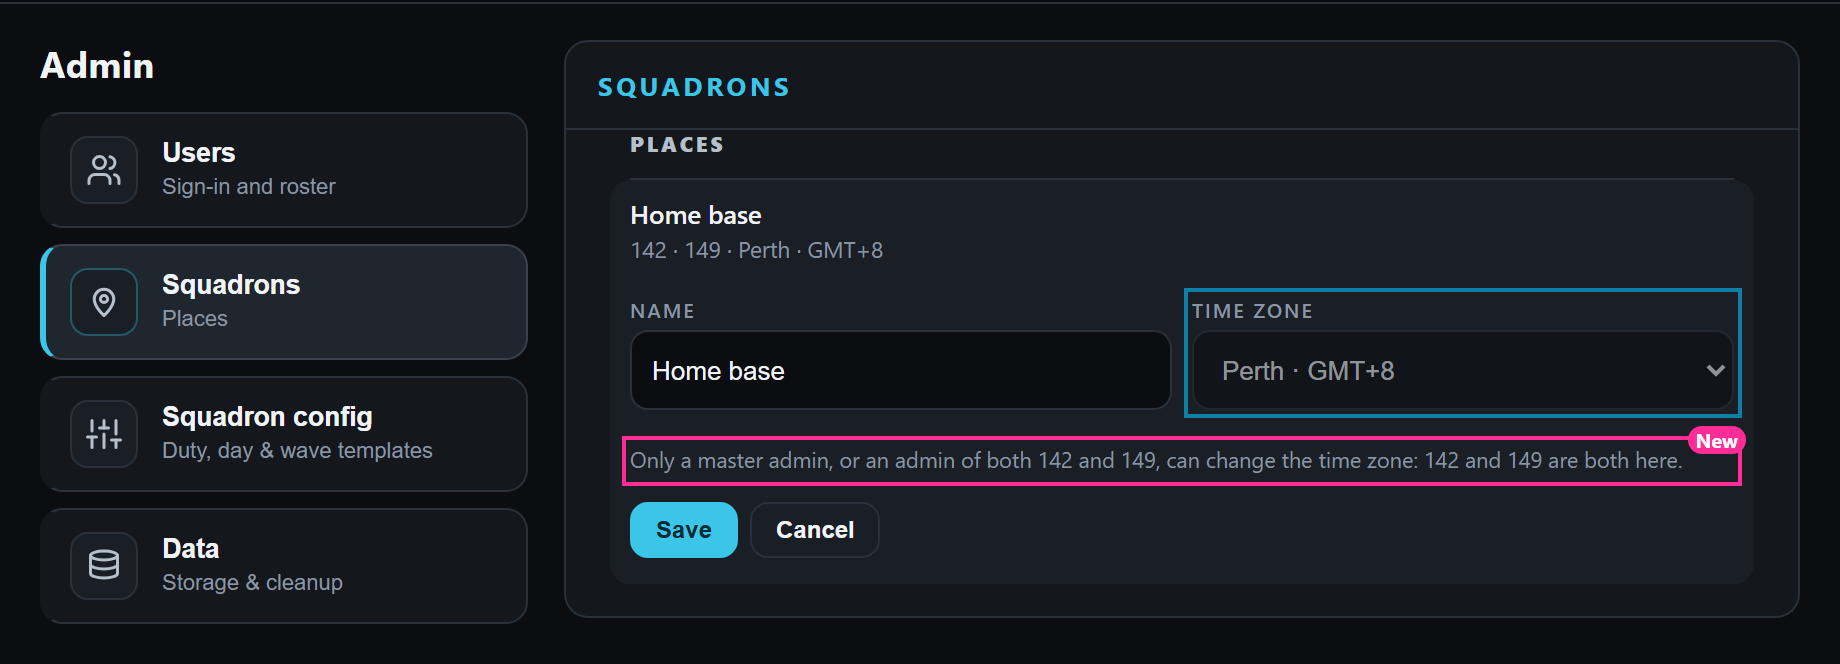
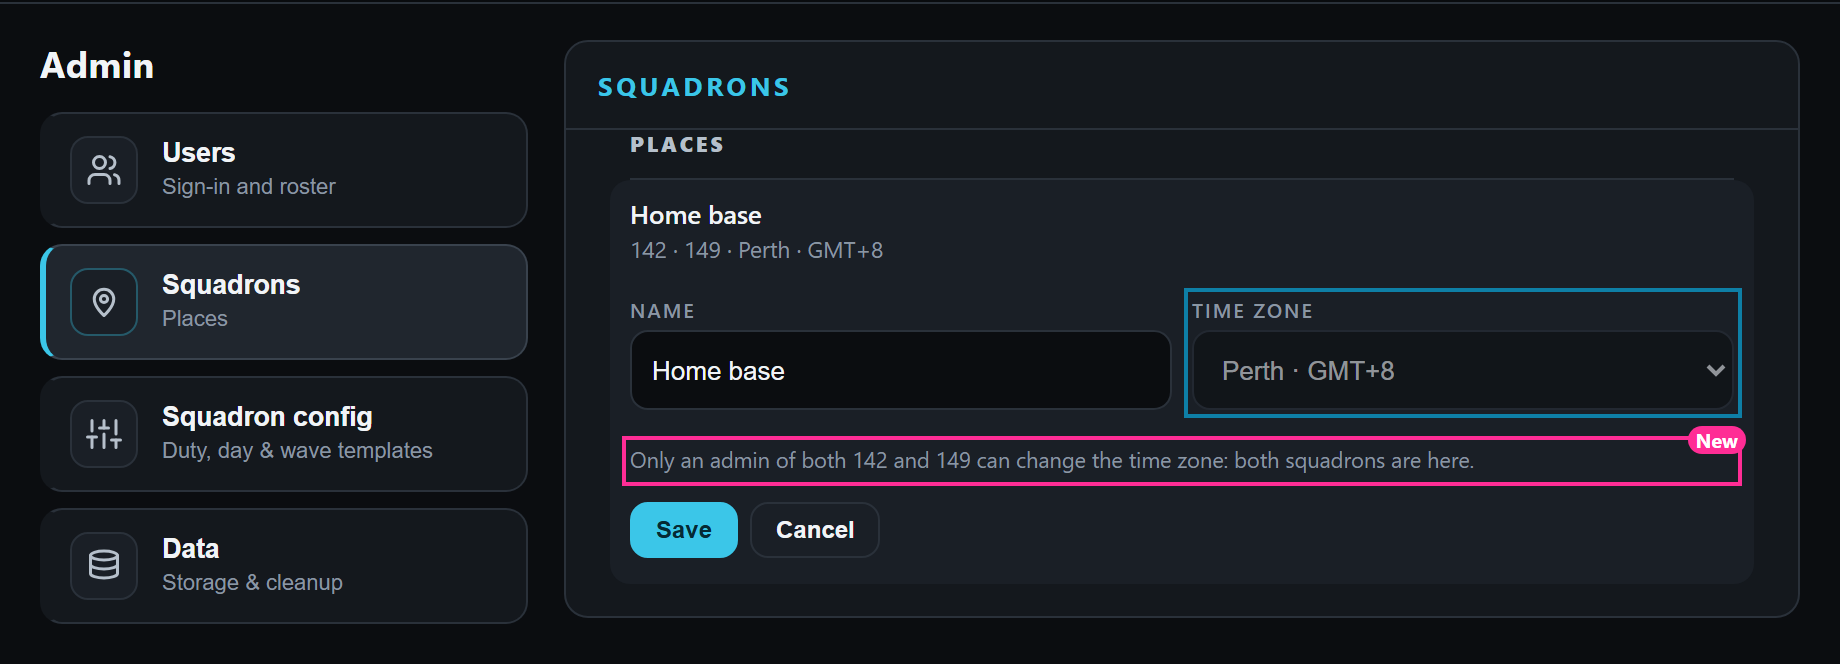
Batch 1's second half page, version 3 (draft): the row redesign with three squadrons and what each role allows (D2300), the Schedules menu options, D2299's words on 5c and 3d, the wording list; design lesson 98 (D2299)

Changed region(s): [[0.3717, 0.6627, 0.8984, 0.7229]]

diff --git a/raptor-port/docs/mock/2026-11-22-msq-b1-screens/page.html b/raptor-port/docs/mock/2026-11-22-msq-b1-screens/page.html
@@ -22,6 +22,7 @@ li{margin:4px 0}
 .pic h3{font-family:var(--head);font-size:17px;margin:0}
 .pic p{margin:0;color:var(--muted)}
 .pair{display:grid;grid-template-columns:2fr 1fr;gap:10px;align-items:start}
+.pair.even{grid-template-columns:1fr 1fr}
 .one{display:grid;grid-template-columns:1fr;gap:10px}
 @media (max-width:620px){.pair{grid-template-columns:1fr}}
 .pair figure,.one figure{margin:0;min-width:0}
@@ -41,6 +42,39 @@ figcaption{font-size:13px;color:var(--muted);margin-top:4px}
 <p class="sub">The first half of batch 1 is live: 142 and 149 kept apart underneath. This half builds the screens you see. Nothing of it is built yet. Each picture is the real app with the new part drawn in. <span class="okk">Blue "Approved"</span> marks what you already approved on 17 or 19 Nov, redrawn on today's app. <span class="new">Pink "New"</span> marks what is new since. Tap a picture to see it full size.</p>
 
 <h2>Look at now</h2>
+<p class="sub">New today, A to D, first. Then the questions still open from before, 1 to 5.</p>
+
+<div class="q"><div><b class="n">A</b>A person's opened row on Admin → Users, made shorter (<a href="#p-rowB">pictures R1 to R7</a>). You asked for a nicer, more concise design, and what it looks like with three squadrons.</div>
+<div class="rec">Recommended: B, as drawn in R1 to R5.</div>
+<ul><li><b>Role</b> becomes Member, Admin or Master admin. Master admin leaves the access buttons and joins Role, since it is a role, not access to one squadron.</li>
+<li>Under it, <b>one line per squadron</b>: "142 Home squadron", then "149 None · View · Plan". With three squadrons a third line, "150 None · View · Plan", is added (R1). Each line fits on one row of an iPhone.</li>
+<li>A master admin's other squadrons read "Full access", with no buttons (R4).</li>
+<li>What follows from it: you ruled on 21 Nov that a master admin is never made a member until the master admin mark is taken off first. On this row, picking Member in place of Master admin is itself taking the mark off, and only a master admin can do it. So that refusal has nothing left to stop here.</li>
+<li>The other two, for comparison (R6, R7): A keeps today's four buttons and moves "Home squadron" into a small grey "142" by his name. C turns everything into drop-down boxes. B is shorter than both and reads the same with any number of squadrons.</li></ul></div>
+
+<div class="q"><div><b class="n">B</b>The Schedules menu under the "142 ▾" button, redesigned (<a href="#p-menuB">pictures M1 to M4</a>). You asked for a nicer look.</div>
+<div class="rec">Recommended: A, the list with a tick (M1, M2).</div>
+<ul><li>A tick on the squadron in view, as an iPhone menu does it. Beside each squadron one grey word: "Your squadron", "View only" or "Full access".</li>
+<li>M1 also shows a detachment under its squadron, "249 · Exercise North", fainter. Detachments come in batch 2; it shows how the menu grows. M2: the same menu with 149 in view.</li>
+<li>B (M3) uses cards; C (M4) puts the squadrons under headings. Both take more room for two or three lines.</li>
+<li>The rows are drawn 44 high. The app's other menus use 38. I recommend 38, so the menu matches the rest of the app. Say if you prefer the taller rows.</li>
+<li>This replaces picture 1, which you approved on 17 Nov.</li></ul></div>
+
+<div class="q"><div><b class="n">C</b>What each role allows, written where roles are given (<a href="#p-rowB">pictures R2 and R3</a>). You asked for this.</div>
+<div class="rec">Recommended: as drawn.</div>
+<ul><li>A blue "▸ What each role allows" under the squadron lines, closed until tapped, in the look of the Logic page's "How it works". Open, it lists:</li>
+<li><b>Member</b>: reads the schedule; changes only their own inputs, Quals row and leave bids. <b>Admin</b>: full access to the home squadron: its schedule and publishing, its settings, its people and their sign-ins. <b>View of a squadron</b>: reads that squadron's schedule and Logic; changes nothing there. <b>Plan of a squadron</b>: full access to that squadron, the same list. <b>Master admin</b>: full access to every squadron; only a master admin makes a squadron, gives Plan or makes a master admin.</li>
+<li>Because the list explains each role, the Role choices drop their long words: "Member — own inputs, quals and bids" becomes "Member". This also mends an iPhone fault in the earlier drawing, where the Role box cut "Admin — schedules and manages" off mid-word.</li></ul></div>
+
+<div class="q"><div><b class="n">D</b>Clearer words across this page. You asked what else should be changed to be clearer. Each line: the words now, then what I would write.</div>
+<div class="rec">Recommended: all six.</div>
+<ul><li>5b: "Only a master admin gives Plan or makes a master admin." → <b>"Only a master admin can give Plan."</b> With B, making a master admin is in Role, not here.</li>
+<li>5a: "Full access to 149, every page: its schedule and publishing, …" → <b>"Full access to 149: its schedule and publishing, its settings, its people and their sign-ins."</b> "Every page" adds nothing the list does not already say. You approved the longer words on 19 Nov.</li>
+<li>3b: "Saved at once; counts from tomorrow." → <b>"Saved at once. The new place applies from tomorrow."</b> It now says what starts tomorrow.</li>
+<li>3c and 3e: "… gets Plan of 150: full access to it, so 150 never starts without an admin." → <b>"… gets Plan of 150, so 150 starts with an admin."</b> What Plan means is now in the role list.</li>
+<li>7b, the Role ticks: "Admin + Plan of 149" → <b>"Plans 149"</b>, the same words as "· also plans 149" on the person's line.</li>
+<li>9a: "It will try again when the app is next opened. If this stays, report it …" → <b>"The app tries again the next time it opens. If this line is still here after that, report it …"</b> "If this stays" did not say when to report it.</li></ul></div>
+
 <div class="q"><div><b class="n">1</b>Your filter button, drawn (<a href="#p-filter">pictures 7a to 7d</a>). You chose it over my filter row.</div>
 <div class="rec">To check: does it look as you meant?</div>
 <ul><li>One "Filter" button beside the search. A tap opens tick boxes: Seat, CAT, Role, and for a master admin Squadron.</li>
@@ -69,7 +103,8 @@ figcaption{font-size:13px;color:var(--muted);margin-top:4px}
 
 <h2>Told, not asked</h2>
 <div class="told"><ul>
-<li><b>Two sentences now name an admin with Plan.</b> You ruled that wherever a master admin may act for a squadron, so may an admin with Plan of it, and both are named. So picture 5c reads "Only 149's admins, an admin with Plan of 149 or a master admin give access to 149." Picture 3d reads "Only a master admin, or an admin of both 142 and 149, can change the time zone: 142 and 149 are both here."</li>
+<li><b>Two sentences redrawn in your words.</b> Picture 5c now reads "Only an admin of 149 can give access to 149." Picture 3d reads "Only an admin of both 142 and 149 can change the time zone: both squadrons are here." "An admin of 149" covers 149's own admins, an admin with Plan of 149 and a master admin.</li>
+<li><b>The filter button is dark on blue</b>, as the app's other lit buttons are (picture 7c). The earlier drawing had it white on blue.</li>
 <li><b>Admin → Squadrons is one page made from your two approved drawings.</b> On 17 Nov the time zone was drawn on each squadron's row, though you had ruled that it belongs to the place. Since 18 Nov a place both squadrons share is a master admin's to set, so the time zone moved to a Places list under the squadrons, as your 19 Nov drawing had it. The tile wears that drawing's map pin, and reads "Places" until detachments come in batch 2. The time zone reads Perth, as on 17 Nov, where the 19 Nov drawing said Singapore.</li>
 <li><b>Which Hunter is which.</b> In pictures 3d, 5c, 7a and 7b Hunter is 142's admin before Saber gives him Plan of 149. In 5a, 6, 8c and 9b he holds it. With Plan he could change the shared time zone, give View of 149, and would be listed under "Admin + Plan of 149".</li>
 <li><b>149's size corrected.</b> The 17 Nov page said 149 has 48 people. The demo has 10.</li>
@@ -89,7 +124,22 @@ figcaption{font-size:13px;color:var(--muted);margin-top:4px}
 <li>A sign-in on a shared computer waits for the last person's change to finish saving.</li>
 </ul>
 
-<section class="pic" id="p-menu"><h3>1 · The "142 ▾" button and its Schedules menu</h3>
+<section class="pic" id="p-rowB"><h3>R · A person's row, redesigned (questions A and C)</h3>
+<p><span class="new">New.</span> R1: Saber, the master admin, opens Hunter, 142's admin, with three squadrons: Plan of 149, View of 150. R2: the same with "What each role allows" opened. R3: Kestrel, 149's admin, opens Ranger of 142: only 149's line is his to change, so the rest of Ranger's row is greyed. R4: Saber picks Master admin for Hunter. R5: Hunter opens Ranger: access to 149 is not his to give. R6 and R7: options A and C, for comparison.</p>
+<div class="pair"><figure><img src="img/k1-d.png" alt="Desktop: Hunter's row with lines for 142, 149 and 150"><figcaption>R1, desktop.</figcaption></figure><figure><img src="img/k1-p.png" alt="iPhone: the same row"><figcaption>R1, iPhone.</figcaption></figure></div>
+<div class="pair"><figure><img src="img/k2-d.png" alt="Desktop: the role list opened under the squadron lines"><figcaption>R2, desktop.</figcaption></figure><figure><img src="img/k2-p.png" alt="iPhone: the role list opened"><figcaption>R2, iPhone.</figcaption></figure></div>
+<div class="pair"><figure><img src="img/k3-d.png" alt="Desktop: Ranger's row as Kestrel sees it, View of 149 picked"><figcaption>R3, desktop.</figcaption></figure><figure><img src="img/k3-p.png" alt="iPhone: Ranger's row as Kestrel sees it"><figcaption>R3, iPhone.</figcaption></figure></div>
+<div class="pair"><figure><img src="img/k4-d.png" alt="Desktop: Master admin picked, 149 and 150 read Full access"><figcaption>R4, desktop.</figcaption></figure><figure><img src="img/k4-p.png" alt="iPhone: Master admin picked"><figcaption>R4, iPhone.</figcaption></figure></div>
+<div class="pair"><figure><img src="img/k5-d.png" alt="Desktop: Ranger's row as Hunter sees it, 149's buttons greyed"><figcaption>R5, desktop.</figcaption></figure><figure><img src="img/k5-p.png" alt="iPhone: 149's buttons greyed"><figcaption>R5, iPhone.</figcaption></figure></div>
+<div class="pair even"><figure><img src="img/rA1-d.png" alt="Desktop: option A, today's four buttons with a grey 142 by the name"><figcaption>R6, option A.</figcaption></figure><figure><img src="img/rC1-d.png" alt="Desktop: option C, drop-down boxes"><figcaption>R7, option C.</figcaption></figure></div></section>
+
+<section class="pic" id="p-menuB"><h3>M · The Schedules menu, redesigned (question B)</h3>
+<p><span class="new">New.</span> M1: option A, 142 in view, with a batch 2 detachment shown under 149. M2: option A with 149 in view. M3: option B, cards. M4: option C, headings.</p>
+<div class="pair"><figure><img src="img/mA1-d.png" alt="Desktop: the menu as a list with a tick on 142"><figcaption>M1, desktop.</figcaption></figure><figure><img src="img/mA1-p.png" alt="iPhone: the menu as a list with a tick"><figcaption>M1, iPhone.</figcaption></figure></div>
+<div class="pair"><figure><img src="img/mA2-d.png" alt="Desktop: the tick on 149"><figcaption>M2, desktop.</figcaption></figure><figure><img src="img/mA2-p.png" alt="iPhone: the tick on 149"><figcaption>M2, iPhone.</figcaption></figure></div>
+<div class="pair even"><figure><img src="img/mB1-p.png" alt="iPhone: option B, cards"><figcaption>M3, option B, iPhone.</figcaption></figure><figure><img src="img/mC1-p.png" alt="iPhone: option C, headings"><figcaption>M4, option C, iPhone.</figcaption></figure></div></section>
+
+<section class="pic" id="p-menu"><h3>1 ·The "142 ▾" button and its Schedules menu</h3>
 <p>Approved 17 Nov. Saber may see both squadrons, so the TALON mark is a button. The menu lists 142 and 149. On a phone it opens as a sheet from the top.</p>
 <div class="pair"><figure><img src="img/b1-1-d.png" alt="Desktop: the Schedules menu under the 142 button, listing 142 and 149"><figcaption>1, desktop.</figcaption></figure><figure><img src="img/b1-1-p.png" alt="iPhone: the Schedules sheet"><figcaption>1, iPhone.</figcaption></figure></div></section>
 
@@ -110,7 +160,7 @@ figcaption{font-size:13px;color:var(--muted);margin-top:4px}
 <div class="pair"><figure><img src="img/b1-5-d.png" alt="Desktop: Request access with Squadron first"><figcaption>4, desktop.</figcaption></figure><figure><img src="img/b1-5-p.png" alt="iPhone: Request access"><figcaption>4, iPhone.</figcaption></figure></div></section>
 
 <section class="pic" id="p-row"><h3>5 · A person's row on Admin → Users</h3>
-<p>Approved 17 and 19 Nov, now in one picture: the "Home squadron" line, then the access buttons. 5a: Saber, the master admin, gives Hunter Plan 149. 5b: Kestrel, 149's admin, opens Ranger (142's): only View 149 is his to give, the rest of Ranger's row stays 142's. 5c: Hunter, 142's admin, opens Ranger: access to 149 is not his to give (<span class="new">New:</span> its sentence names an admin with Plan).</p>
+<p>Approved 17 and 19 Nov, now in one picture: the "Home squadron" line, then the access buttons. 5a: Saber, the master admin, gives Hunter Plan 149. 5b: Kestrel, 149's admin, opens Ranger (142's): only View 149 is his to give, the rest of Ranger's row stays 142's. 5c: Hunter, 142's admin, opens Ranger: access to 149 is not his to give (<span class="new">New:</span> its sentence, in your words). Question A would replace this row with R1 to R5.</p>
 <div class="pair"><figure><img src="img/p1a-d.png" alt="Desktop: Hunter's row, Plan 149 picked"><figcaption>5a, desktop.</figcaption></figure><figure><img src="img/p1a-p.png" alt="iPhone: Hunter's row"><figcaption>5a, iPhone.</figcaption></figure></div>
 <div class="pair"><figure><img src="img/p1b-d.png" alt="Desktop: Ranger's row as Kestrel sees it"><figcaption>5b, desktop.</figcaption></figure><figure><img src="img/p1b-p.png" alt="iPhone: Ranger's row as Kestrel sees it"><figcaption>5b, iPhone.</figcaption></figure></div>
 <div class="one"><figure><img src="img/p1c-d.png" alt="Desktop: Ranger's row as Hunter sees it, the buttons greyed"><figcaption>5c, desktop.</figcaption></figure></div></section>

diff --git a/raptor-port/docs/design-practices.md b/raptor-port/docs/design-practices.md
@@ -643,6 +643,8 @@ first, as a chat does for ruling numbers, and names it in its handoff block; whe
 the merge renumbers only the branch's own side, by script, and the closing report tells him the old and new numbers
 (D1417).*
 
+**Lesson 98 (22 Nov 26, D2299 — "this is not written clearly").** A line saying who may do something names one role once — "Only an admin of 149 can give access to 149." — never a list of every kind of person who holds that right. *(The agent's reading: where one role already covers the others, as "an admin of 149" covers 149's own admins, a Plan holder of 149 and a master admin, that one role is the one named.)*
+
 **Lesson 96 (19 Nov 26, D2211 — "Instead of saying as for 149's own admin. Perhaps make it clearer").** The line under an access level says plainly what the person gets, never by comparison with another role. *(The agent's reading: the same holds for any line that explains a role or a setting.)*
 
 **Lesson 95 (17 Nov 26, D2121 — "10b if 142 hasnt approve the schedule, to the user, it looks like the schedule for the day is published").** A status shown inside a day never makes that day read as published while its own squadron has not signed it.

diff --git a/raptor-port/docs/archive/design-lessons-detail-2026-11-10.md b/raptor-port/docs/archive/design-lessons-detail-2026-11-10.md
@@ -177,3 +177,7 @@ nothing until accepted again" and a rejected row's hover text "Removed from the 
 Both wait for his answer (the night of 16–17 Oct 26, question 2).
 
 *Lesson 1 (16 Oct 26, D938 — "a scheduler's working screen carries no hint on how a row is edited…") was struck by him the same day: "Disregard this lesson" (D942).*
+
+## Added 22 Nov 26 (chat 137)
+
+**Lesson 98 (22 Nov 26, D2299).** Said of picture 5c on batch 1's second-half page (Admin → Users, Ranger's row opened by Hunter, 142's admin): the line "Only 149's admins, an admin with Plan of 149 or a master admin give access to 149." became "Only an admin of 149 can give access to 149."; the shared place's time-zone line likewise became "Only an admin of both 142 and 149 can change the time zone: both squadrons are here." *Other places it may apply (D852), named, not changed:* every "who can" line the multi-squadron build adds — the last-admin refusals, a greyed access button's line, the bell's lines about who may act — reads one role; "Only a master admin can give Plan." already does. Reader's notes: below, once read.
